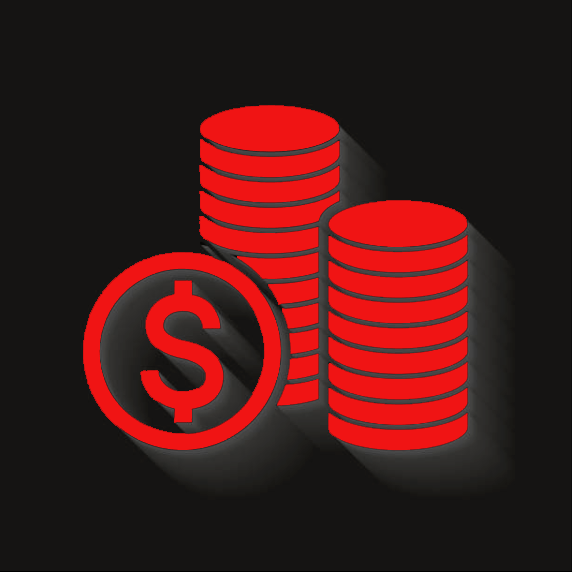
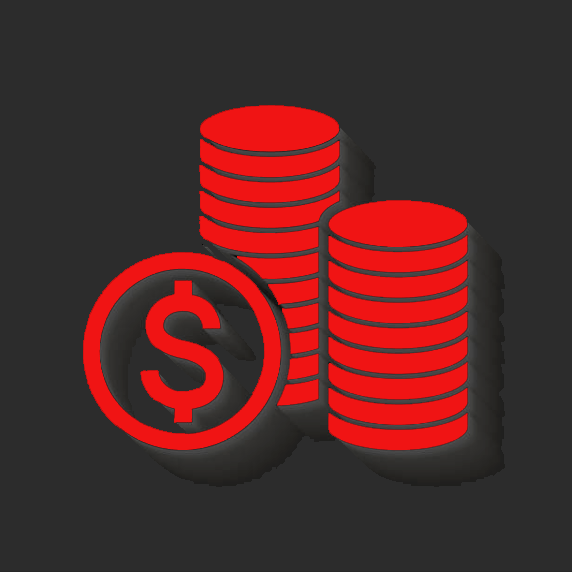
Added support for the color theme.

diff --git a/src/routes/+layout.svelte b/src/routes/+layout.svelte
@@ -1,10 +1,50 @@
 <script lang="ts">
 	import '../app.css'
-	import { ThemeProvider } from "svelte-elegant";
+	import { 
+		ThemeProvider, 
+		Header,
+		ColorThemeSwitch
+	} from "svelte-elegant";
+	import { themeMode } from 'svelte-elegant/stores/themeStore';
 	import ContextMenu from '../components/layout/ContextMenu.svelte';
+	import type { IColorThemeStore } from "svelte-elegant/interfaces";
+	import { themeStore } from "svelte-elegant/stores/themeStore";
+
+	let theme: IColorThemeStore | undefined;
+
+	// Подписываемся на изменения темы
+	themeStore.subscribe(value => {
+		theme = value; //Инициализация объекта темы
+	});
 
 	let { children } = $props();
 </script>
+
+<Header height = 3.5rem>
+	<button style:gap = '0.5rem'>
+		<img src = {$themeMode === 'light' ? '/Images/Logo.png' : '/Images/Dark.png'} alt = 'logo' class = 'logo' />
+		<p style:font-size=26px>
+			<span 
+				style:color = {theme?.colors.primary}
+				style:transition = 'all 0.3s'
+			>
+				Finance
+			</span> 
+			<span 
+			style:color = {$themeMode === 'light' ? '#343434' : 'white'}
+			style:transition = 'all 0.3s'
+		>
+			& Investments
+		</span> 
+		</p>
+	</button>
+	<div 
+		style:margin-left = auto
+		style:margin-right = 1.25rem
+	>
+		<ColorThemeSwitch />
+	</div>
+</Header>
 
 <ThemeProvider>
 	<ContextMenu />
@@ -14,3 +54,11 @@
 		</main>
 	</div>
 </ThemeProvider>
+
+<style>
+	.logo {
+		width: 3.25rem;
+		height: 3.25rem;
+		border-radius: 50%;
+	}
+</style>

diff --git a/src/components/ui/Link.svelte b/src/components/ui/Link.svelte
@@ -1,11 +1,19 @@
 <script lang='ts'>
+    import type { IColorThemeStore } from "svelte-elegant/interfaces";
     import { activeLink } from './../../stores/activeLinkStore';
     import { onMount } from 'svelte';
+    import { themeStore } from "svelte-elegant/stores/themeStore";
 
     export let href = ''
-    export let bgColor = 'red'
 
     let isActive = false;
+
+    let theme: IColorThemeStore | undefined;
+
+    // Подписываемся на изменения темы
+    themeStore.subscribe(value => {
+        theme = value; //Инициализация объекта темы
+    });
 
     // Реактивно следим за состоянием активной ссылки
     $: isActive = $activeLink === href;
@@ -18,7 +26,7 @@
 
 <a 
     href = {href}
-    style:background-color = {isActive ? bgColor : ''}
+    style:background-color = {isActive ? theme?.colors.primary : ''}
     onclick = {() => {
         // Устанавливаем текущую ссылку как активную
         activeLink.set(href);

diff --git a/src/components/ui/Menu.svelte b/src/components/ui/Menu.svelte
@@ -1,4 +1,19 @@
-<nav class = 'menu'>
+<script lang='ts'>
+	import { themeMode, themeStore } from 'svelte-elegant/stores/themeStore';
+    import type { IColorThemeStore } from "svelte-elegant/interfaces";
+
+    let theme: IColorThemeStore | undefined;
+
+    // Подписываемся на изменения темы
+    themeStore.subscribe(value => {
+        theme = value; //Инициализация объекта темы
+    });
+</script>
+
+<nav    
+    class = 'menu'
+    style:background-color = {$themeMode === 'light' ? '#f8f8f8' : '#1c1c1c'}
+>
     <slot />
 </nav>
 
@@ -8,7 +23,6 @@
         flex-direction: column;
         height: 100vh;
         width: 15rem;
-        background-color: #f8f8f8;
         position: fixed;
         padding-top: 5.5rem;
         padding-left: 1rem;

diff --git a/src/routes/trade-history/+page.svelte b/src/routes/trade-history/+page.svelte
@@ -45,26 +45,6 @@
 	];
 </script>
 
-<Header height = 3.5rem>
-	<button style:gap = '0.5rem'>
-		<img src = '/Images/Logo.png' alt = 'logo' class = 'logo' />
-		<p style:font-size=26px>
-			<span 
-				style:color = '#343434'
-				style:transition = 'all 0.3s'
-			>
-				Finance & Investments2
-			</span> 
-		</p>
-	</button>
-	<div 
-		style:margin-left = auto
-		style:margin-right = 1.25rem
-	>
-		<ColorThemeSwitch />
-	</div>
-</Header>
-
 <section>
 	<div class = 'content'>
 		{#each stocks as stock}
@@ -92,11 +72,5 @@
 		flex-direction: column;
 		gap: 1.03rem; 
 
-	}
-
-	.logo {
-		width: 3.25rem;
-		height: 3.25rem;
-		border-radius: 50%;
 	}
 </style>

diff --git a/src/routes/assets/+page.svelte b/src/routes/assets/+page.svelte
@@ -46,26 +46,6 @@
 	];
 </script>
 
-<Header height = 3.5rem>
-	<button style:gap = '0.5rem'>
-		<img src = '/Images/Logo.png' alt = 'logo' class = 'logo' />
-		<p style:font-size=26px>
-			<span 
-				style:color = '#343434'
-				style:transition = 'all 0.3s'
-			>
-				Finance & Investments
-			</span> 
-		</p>
-	</button>
-	<div 
-		style:margin-left = auto
-		style:margin-right = 1.25rem
-	>
-		<ColorThemeSwitch />
-	</div>
-</Header>
-
 <section>
 	<div class = 'content'>
 		{#each stocks as stock}
@@ -93,11 +73,5 @@
 		flex-direction: column;
 		gap: 1.03rem; 
 
-	}
-
-	.logo {
-		width: 3.25rem;
-		height: 3.25rem;
-		border-radius: 50%;
 	}
 </style>
